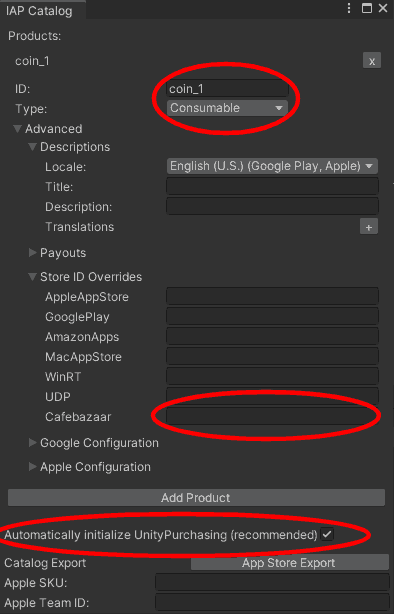
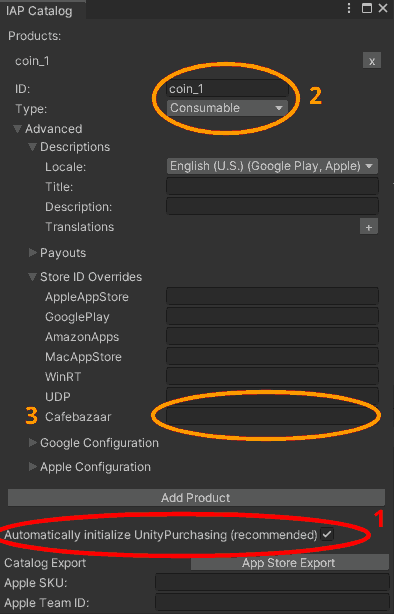
More description for add item

diff --git a/README.md b/README.md
@@ -14,6 +14,9 @@ Add `IAP Button` to the scene and then select. In inspector click on `IAP Catalo
 <img src="https://github.com/manjav/unitypurchasing-cafebazaar/blob/master/images/Button-add.png?raw=true"/><img src="https://github.com/manjav/unitypurchasing-cafebazaar/blob/master/images/Button-inspector.png?raw=true"/><img src="https://github.com/manjav/unitypurchasing-cafebazaar/blob/master/images/Catalog.png?raw=true"/><br/><br/>
 
 ### Step 3 - Add Product Item :
+1. Check automaticlly initialize ...
+2. Select ID and type of product.
+3. You can override title, description and override ID for every store.
 
 <img src="https://github.com/manjav/unitypurchasing-cafebazaar/blob/master/images/Catalog-fill.png?raw=true"/><br/><br/>
 
